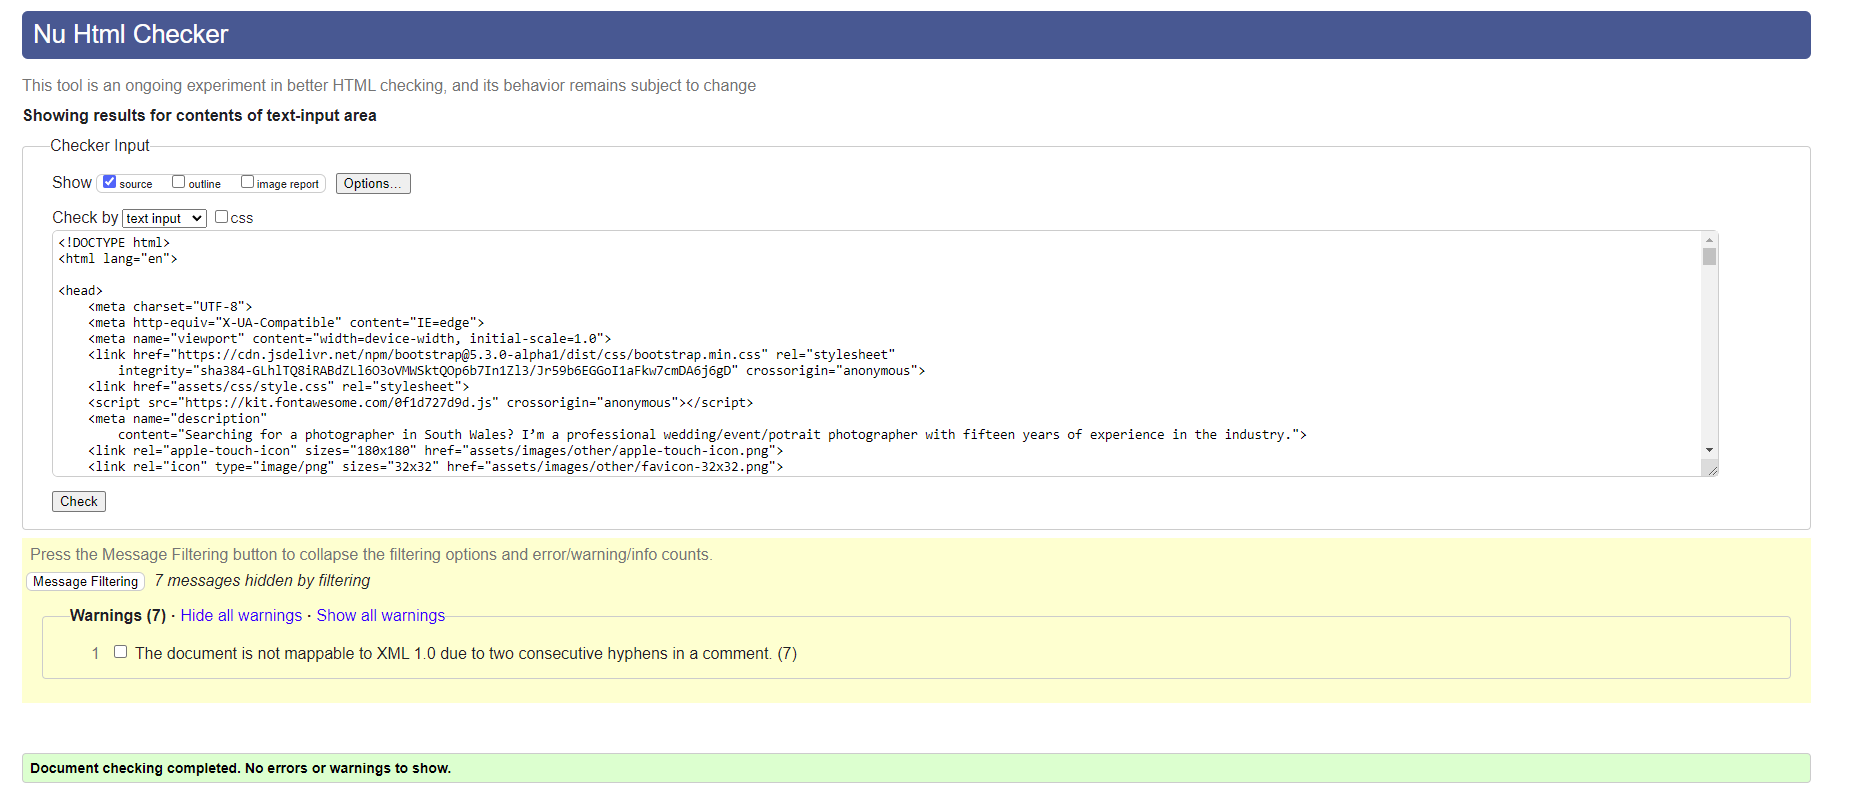
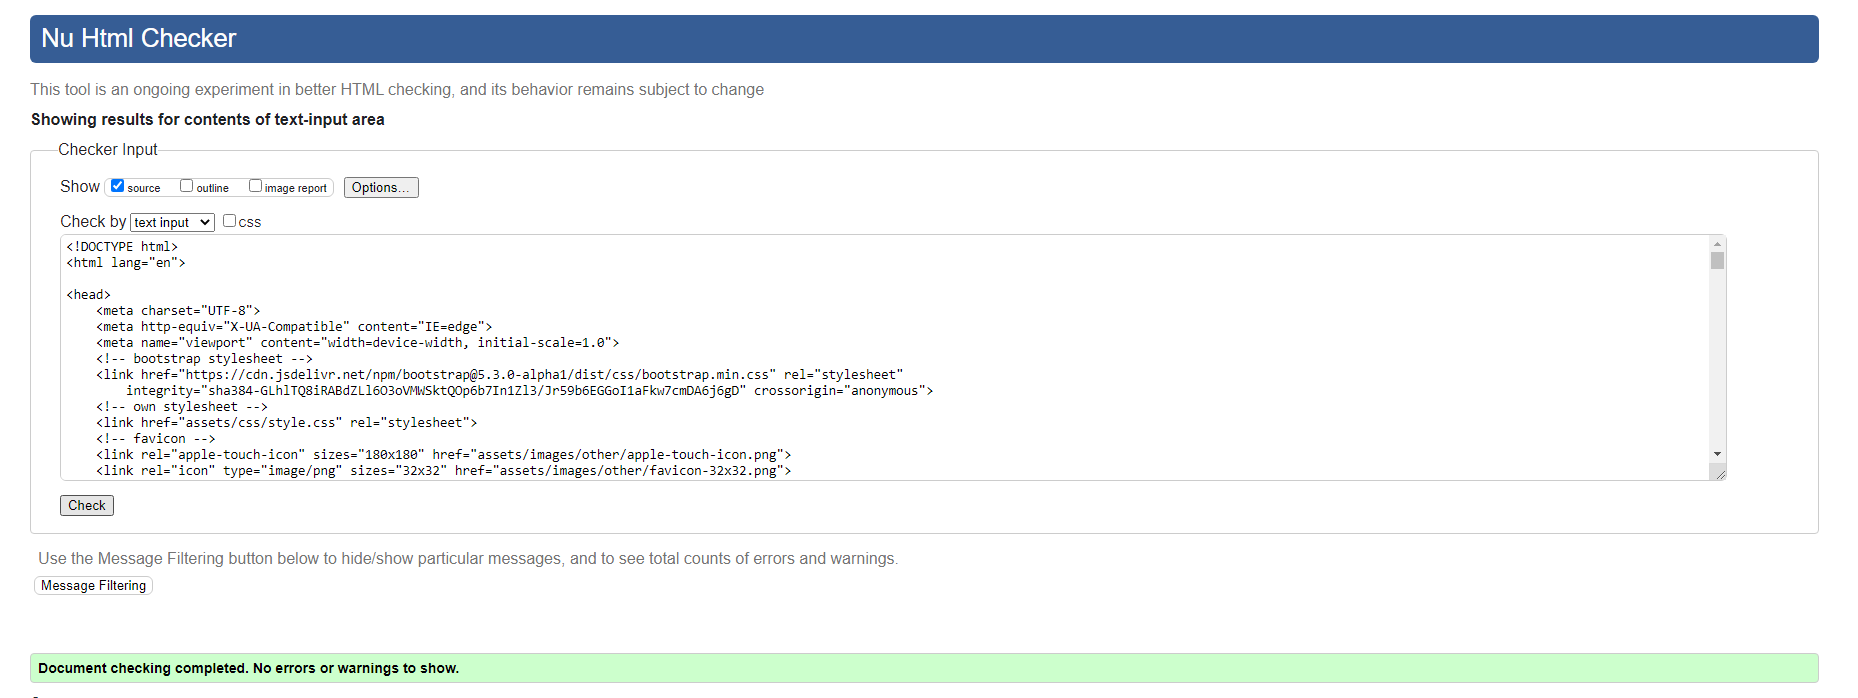
updated readme

diff --git a/README.md b/README.md
@@ -9,6 +9,7 @@ This website was created as the 1st Milestone Project (User Centric Frontend Dev
 <br><br>
 
 ---
+<br><br>
 
 # Contents
 
@@ -55,13 +56,8 @@ This website was created as the 1st Milestone Project (User Centric Frontend Dev
 * [Deployment](#deployment)
 <br><br>
 
-* [Credits](#credits)
-
-
-
-
-
-<br><br>
+* [Credits](#credits)<br><br>
+<br>
 
 # User Experience UX
 L C Photography is a fictional website made for a professional photographer Lloyd Chidgey.
@@ -82,7 +78,7 @@ L C Photography is a fictional website made for a professional photographer Lloy
 * Easily navigate around the site.
 * View the site on device at hand.
 <br><br>
-<br><br>
+<br>
 # Design
 
 ## Wireframes
@@ -133,7 +129,7 @@ Created wireframes using balsamiq software.
 </details>
 <br>
 </details>
-<br><br>
+<br>
 
 ## Color Palette
 Created color palette by taking colors from background image on Contact and Response pages. Used canva.com to generate 4 colors from the image.
@@ -155,7 +151,7 @@ Images sourced from royalty free site [Unsplash](https://unsplash.com/). Images 
 ## Icons
 All icons used on the site from [FontAwesome](https://fontawesome.com/).
 <br><br>
-<br><br>
+<br>
 # Features
 The website is 4 pages. A **Home** page, a **Gallery** page, a **Contact** page and a **Response** page which is linked to when the form is successfully submitted on the the **Contact** page. There is also a Modal which contains the same form from the **Contact** page and also redirects to the **Response** page. 
 
@@ -230,7 +226,8 @@ This page was made to give some visual feeback to the user that the submit butto
 <img src="docs/readme-images/response-mobile.png">
 <br><br>
 ## 404
-A 404 error page was added to allow the user to easily return to Homepage.
+A 404 error page was added to allow the user to easily return to Homepage. Added so that if the user attempts to access a webpage that doesn't exist or has a broken link they can easily navigate back to the site, turning the negative experience into a positive one.
+
 <br><br>
 <img src="docs/readme-images/404-page.png">
 <br><br>
@@ -240,7 +237,7 @@ In particular the **Gallery** page on mobile gets particurarly long on mobile, a
 ## Future Implementation 
 Further development to the site could be using some php to create a database of form submissions, direct the user to another page (e.g. response page), and send an email.
 <br><br>
-<br><br>
+<br>
 # Technologies
 ## Languages
 The site was mainly developed using HTML and CSS, though some JavaScript was used to to make the disappearing navbar feature.
@@ -277,9 +274,10 @@ The site was mainly developed using HTML and CSS, though some JavaScript was use
 * Favicon.io
     * Used to create a favicon.
 <br><br>
+<br>
 # Testing
 ## HTML Validation
-The [W3C Markup Validation Service](https://validator.w3.org/) was used to validate the HTML code. Passed with 0 errors, just warnings for hyphens in the comments.
+The [W3C Markup Validation Service](https://validator.w3.org/) was used to validate the HTML code. Passed with 0 errors.
 <details>
 <summary>Homepage</summary>
 <br>
@@ -407,6 +405,14 @@ Low performance score due to amount of images. Files already resized, formatted 
 | Feature     | Action      | Expected Result | Actual Result |
 | ----------- | ----------- |---------------- | ------------- |
 | Navbar/Header | Scroll up | Navbar/Header to be displayed and all links to redirect correctly | Works as expected |
+<br><br>
+* Negative Testing
+
+| Feature     | Action      | Expected Result | Actual Result |
+| ----------- | ----------- |---------------- | ------------- |
+| Required values on form inputs | Left field blank | Form should not submit | Works as expected |
+| Email input type on form | Try to submit with text other than email adress | Form should not submit | Works as expected |
+| 404 page | Input random characters into url | Should redirect to 404/error page | Works as expected |
 <br><br>
 ## Responsiveness
 Tested across various devices using Google Dev Tools and real world devices for expected look and layout. 
@@ -554,6 +560,7 @@ $ git clone https://github.com/YOUR-USERNAME/YOUR-REPOSITORY
 ```
 <br><br>
 # Credits
+All photos sourced from [Unsplash](https://unsplash.com/) authors of photos listed below.
 <details>
 <summary>Miscellaneous Images</summary>
 <br>
@@ -621,7 +628,7 @@ $ git clone https://github.com/YOUR-USERNAME/YOUR-REPOSITORY
 <br>
 
 * Masonary Style Gallery Images - Inspiration from Love Running Project
-* Script for Navbar - W3Schools
+* Script for Navbar - [W3Schools](https://www.w3schools.com/howto/howto_js_navbar_hide_scroll.asp)
 </details>
 
 
